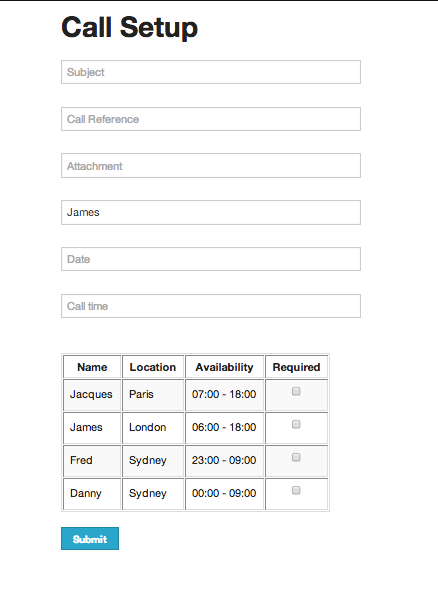
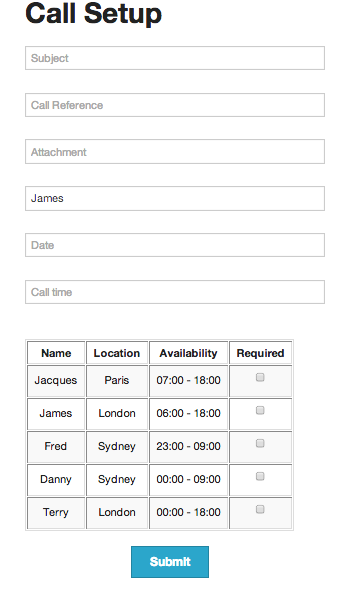
made visual changes

diff --git a/app/assets/stylesheets/style.css b/app/assets/stylesheets/style.css
@@ -46,6 +46,9 @@ button-style: radius;
 
 }
 
+table.width_hundred {
+  width: 100%;
+}
 
 body {
   padding-bottom: 65px;
@@ -57,5 +60,6 @@ body {
   text-align: center;
   font-size: 1em;
 }
-#user_timezone{
+.callsetup{
+  text-align: left;
 }
